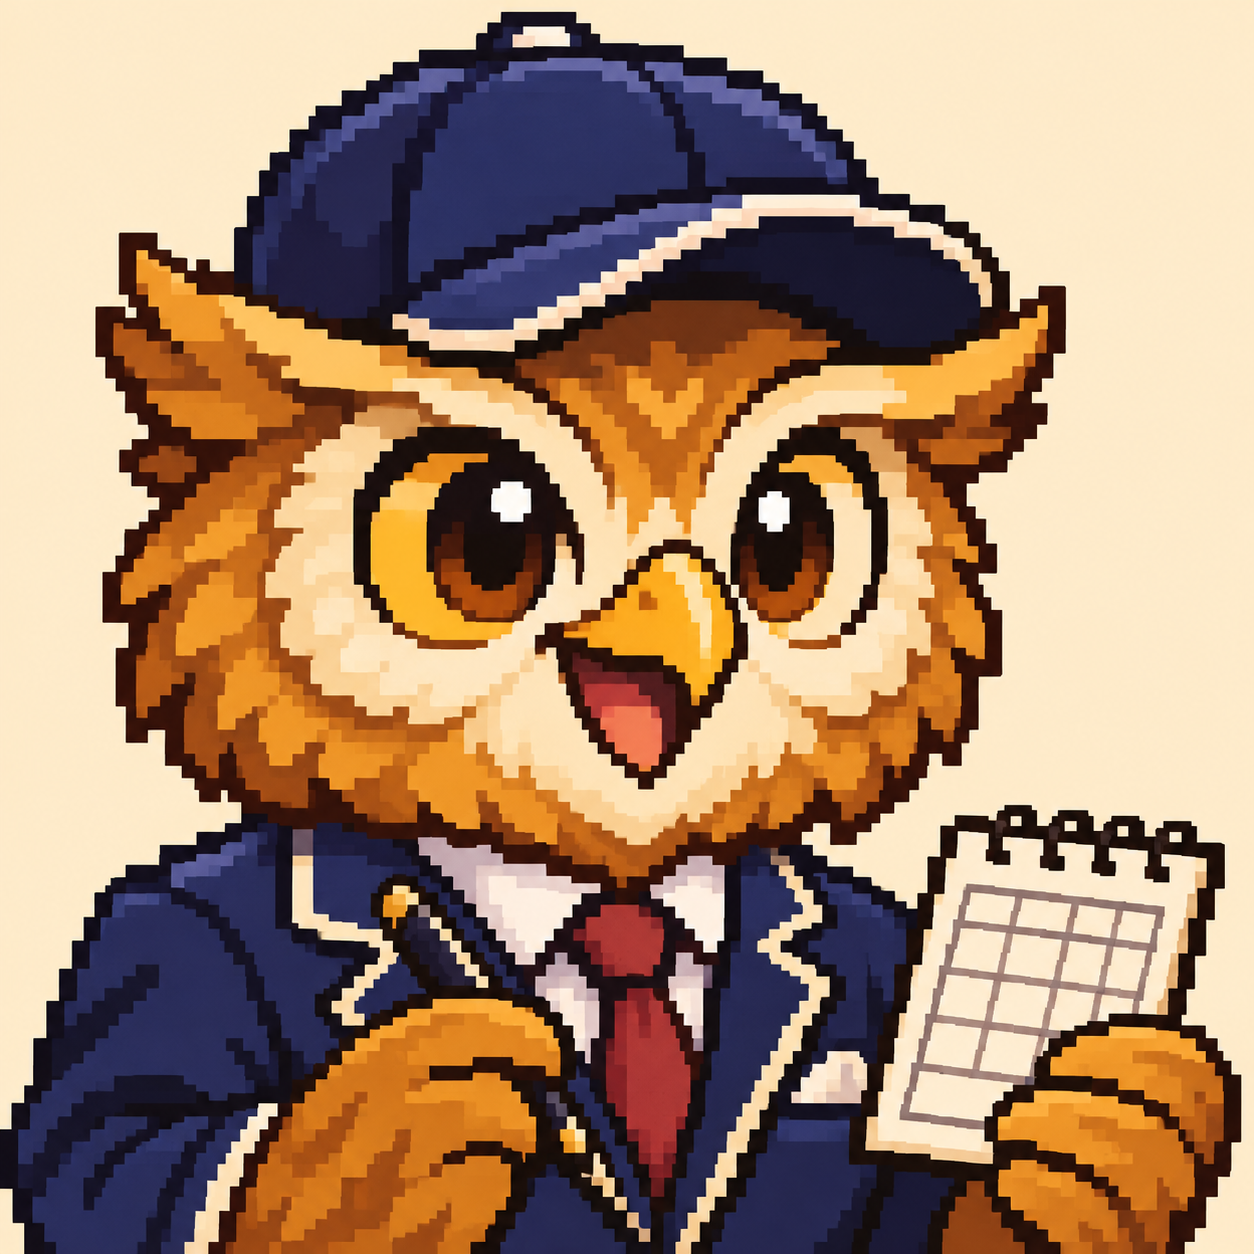
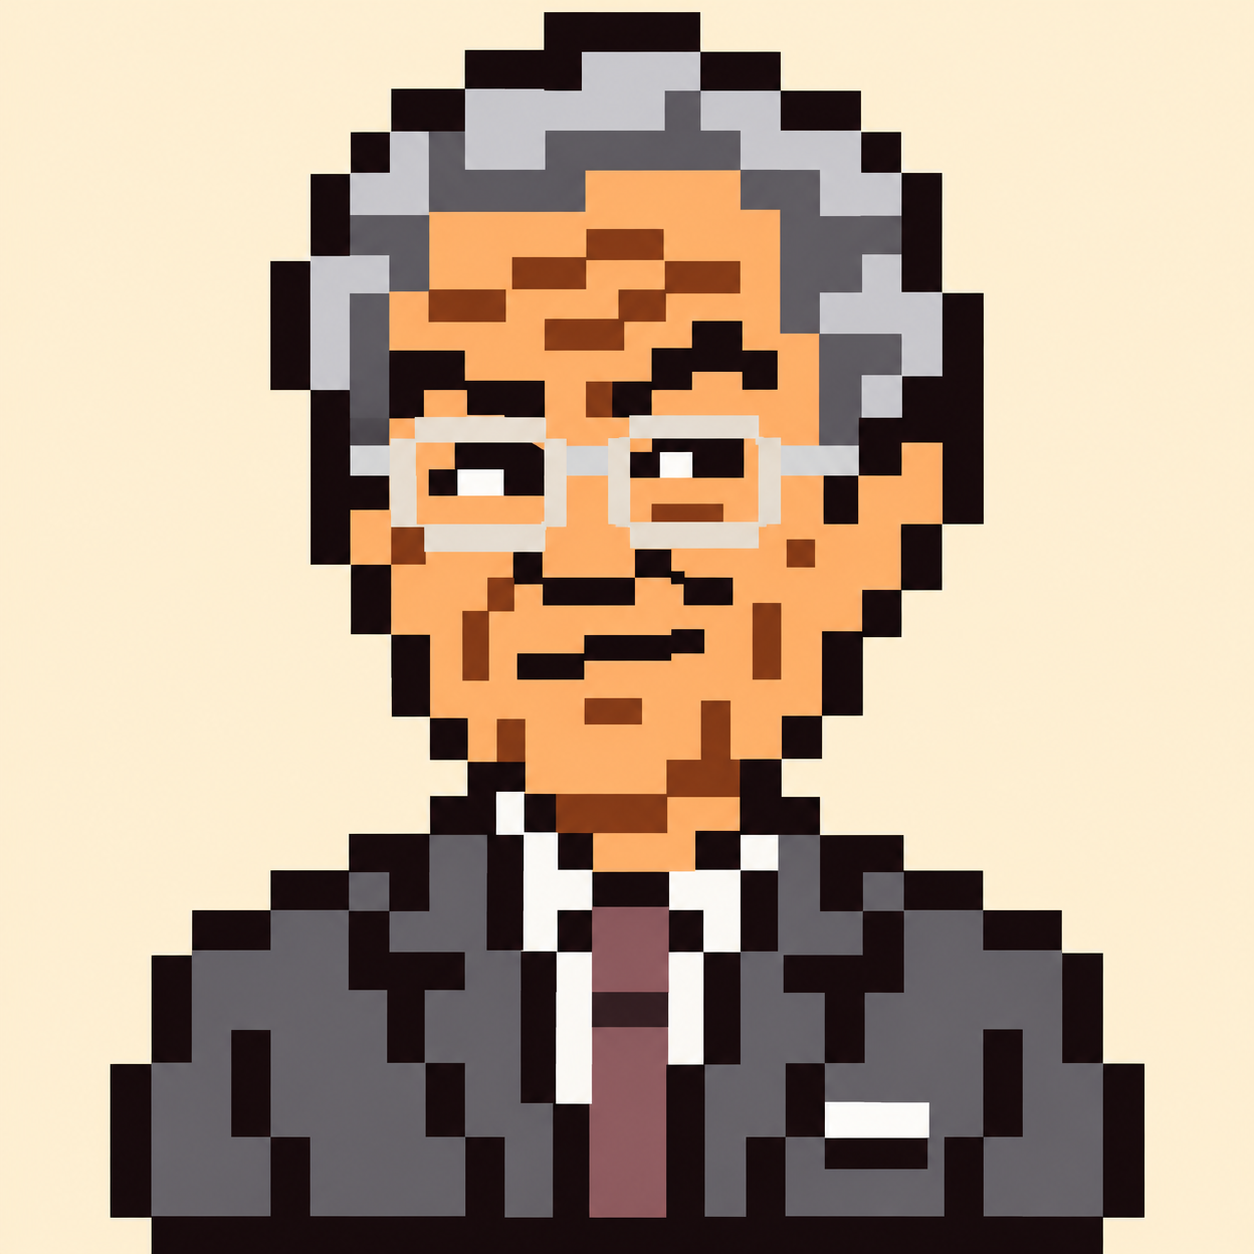
feat: update commentator pixel art

diff --git a/README.md b/README.md
@@ -1,6 +1,6 @@
 # サンデーモーニング
 
-<img src="skills/sunday-morning/assets/commentator.png" alt="フクロウの野球解説者を描いたオリジナルのプロジェクトアイコン" width="160">
+<img src="skills/sunday-morning/assets/commentator.png" alt="野球解説者を描いたドット絵のプロジェクトアイコン" width="160">
 
 [English](README.en.md)
 
